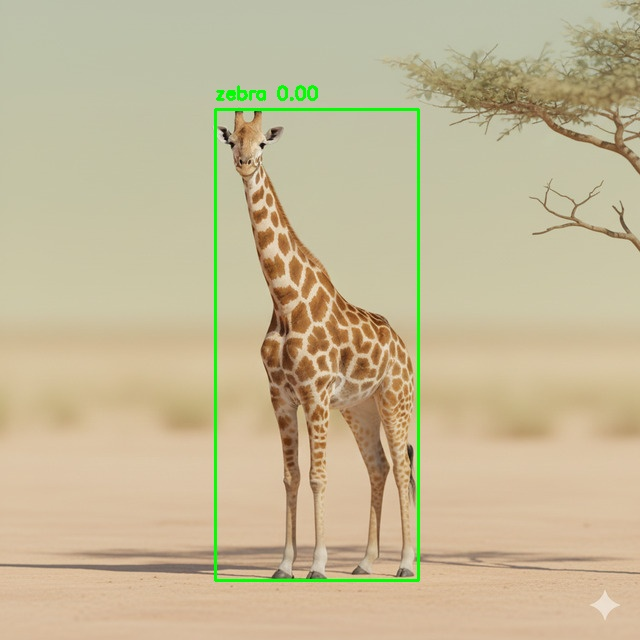
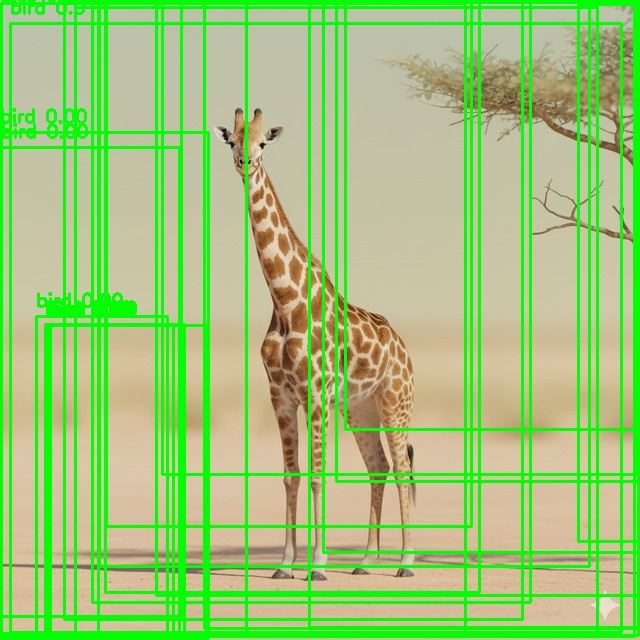
1

diff --git a/YOLO/yolo11n.py b/YOLO/yolo11n.py
@@ -45,10 +45,10 @@ def load_image(image_path):
     img = Image.open(image_path).convert('RGB')
     img_np = np.array(img)
     # 转为NCHW, 归一化
-    img_np = img_np.transpose(2, 0, 1)[np.newaxis].astype(np.float32) / 255
+    img_np = img_np.transpose(2, 0, 1)[np.newaxis].astype(np.float32)/255
     return img_np, np.array(img)
 
-def postprocess(pred, conf_thresh=0.00001, iou_thresh=0.1):
+def postprocess(pred, conf_thresh=0.00001, iou_thresh=0.9):
     arr = pred[0]
     # 只处理(1, 84, 8400)情况
     if arr.shape == (1, 84, 8400):
